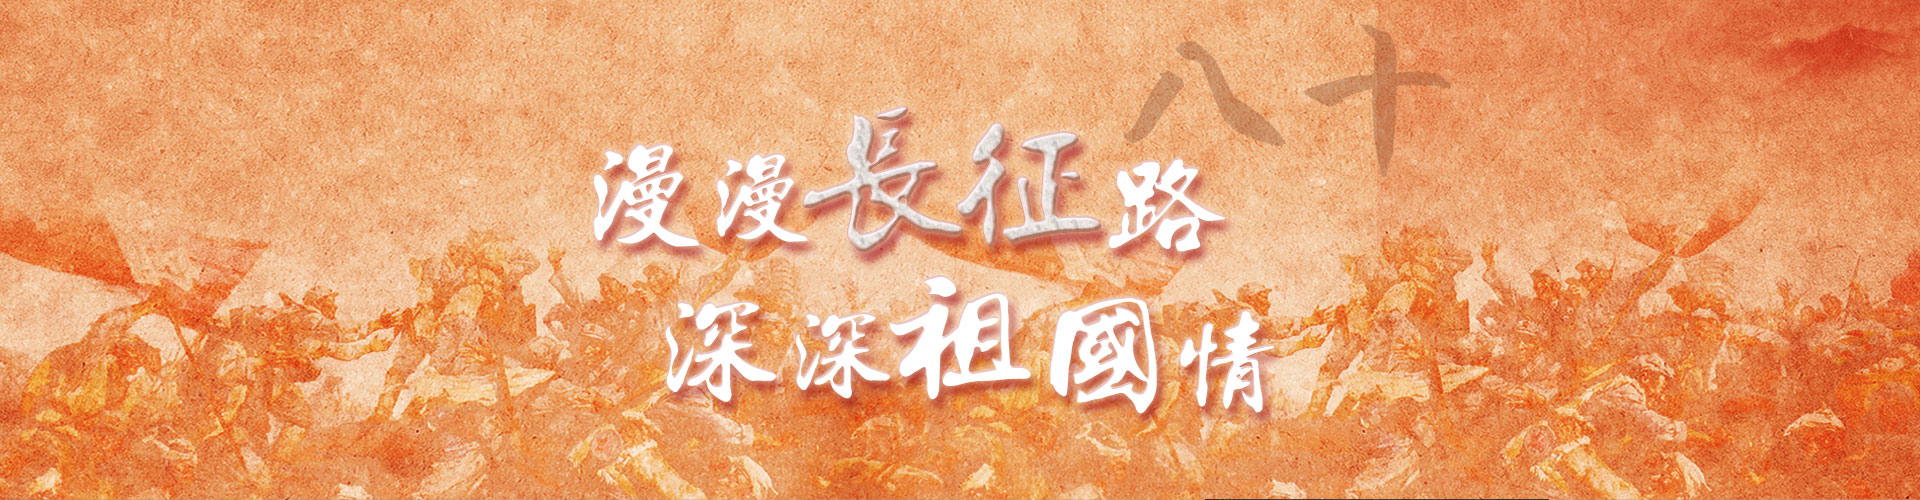
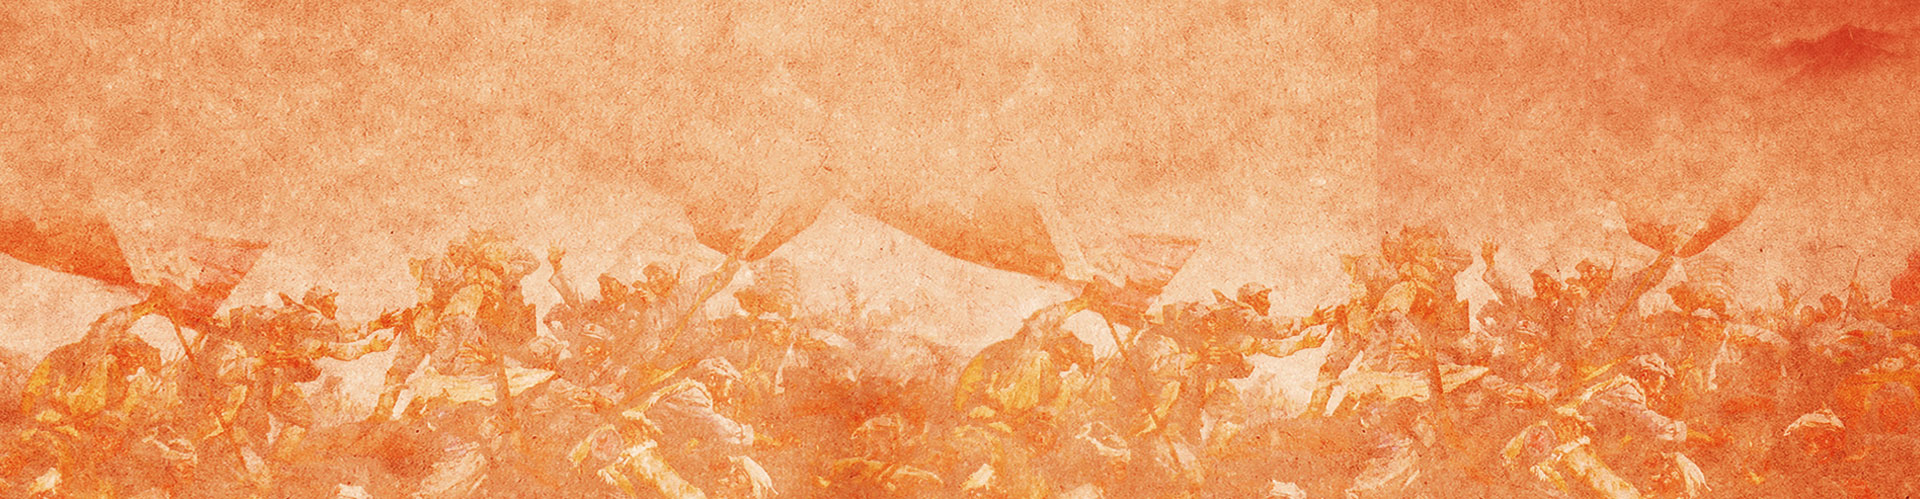
12.7
12.7

diff --git a/long-march/css/style.css b/long-march/css/style.css
@@ -102,22 +102,38 @@ input, select {
 
 body { 
   font-size: 62.5%;
-  font-family: MicrosoftYaHei;
+  font-family: Microsoft YaHei;
   background-image: url(../images/bg.jpg);
+  overflow-x: hidden;
 }
+
+/*头部部分*/
+
+#page-header {
+  width: 100%;
+  height: auto;
+  background-image: url(../images/banner.jpg);
+  background-size: 100% 100%;
+}
+
+#page-header h1 {
+  margin: 0 auto;
+  max-width: 1000px;
+}
+
 /*导航*/
 
 #page-content { position: relative; }
-#page-header {
+#navbar {
   position: absolute;
   right: 50px;
-  top: 0;
+  top: 120px;
   -webkit-transition: .8s; 
      -moz-transition: .8s; 
       -ms-transition: .8s; 
        -o-transition: .8s; 
           transition: .8s;
-  
+  z-index: 1000;
 }
 
 .navbar-nav {
@@ -167,6 +183,7 @@ body {
   text-align: center;
   color: #fff;
   font-size: 1.4em;
+  cursor: pointer;
 }
 .navbar-nav li:hover {
   background-color: #fd7202;
@@ -246,8 +263,8 @@ body {
   margin: 25px 0 45px 0;
 }
 .knet-right-main {
-  width: 313px;
-  background-color: #e3d1bc;
+  max-width: 313px;
+  background-color: rgba(237,212,189,0.5);
   padding: 35px 30px;
   font-size: 1.8em;
   text-indent: 2em;
@@ -275,15 +292,20 @@ body {
   height: 436px;
   background-image: url(../images/lookbackbg.png);
   position: relative;
+  background-size: 100% 100%;
 }
 
 .lookback-body {
     position: absolute;
-    left: 360px;
+    left: 36%;
     top: 100px;
 }
-
-.lookback-body a{
+.lookback-body li {
+  text-overflow: ellipsis;
+  overflow: hidden;
+  white-space: nowrap;
+}
+.lookback-body a {
   text-decoration: none;
   color: #fdeeed;
   line-height: 25px;
@@ -309,12 +331,19 @@ body {
   height: 428px;
   background-image: url(../images/sayingbg.png);
   position: relative;
+  background-size: 100% 100%;
 }
 
 .saying-body {
     position: absolute;
-    left: 320px;
+    left: 30%;
     top: 120px;
+}
+
+.saying-body li {
+  text-overflow: ellipsis;
+  overflow: hidden;
+  white-space: nowrap;
 }
 
 .saying-body a{
@@ -334,12 +363,19 @@ body {
   height: 494px;
   background-image: url(../images/futurebg.png);
   position: relative;
+  background-size: 100% 100%;
 }
 
 .future-body {
     position: absolute;
-    left: 200px;
+    left: 18%;
     top: 140px;
+}
+
+.future-body li {
+  text-overflow: ellipsis;
+  overflow: hidden;
+  white-space: nowrap;
 }
 
 .future-body a{
@@ -379,10 +415,13 @@ body {
   width: 320px;
   line-height: 25px;
   font-size: 1.8em;
-  padding: 40px 0;
+  padding: 40px 30px;
+
 }
 
-.topic-item p { text-indent: 2em; }
+.topic-item p { 
+  text-indent: 2em;
+}
 
 /*诗话长征部分*/
 
@@ -396,7 +435,7 @@ body {
 }
 
 .footer {
-  width: 800px;
+  max-width: 810px;
   margin: 0 auto;
   display: -webkit-box;
   display: -moz-box;
@@ -415,7 +454,7 @@ body {
           align-items: center;
 }
 
-.copyright{ width: 600px; }
+.copyright{ width: 610px; }
 .copyright p{
    font-size:1.2em;
    line-height:30px;
@@ -479,3 +518,96 @@ body {
   -webkit-animation-name: pulse;
   animation-name: pulse;
 }
+@media screen and (max-width: 1000px) {
+  #navbar { display: none; }
+}
+@media screen and (max-width: 800px) {
+  #knet > img {
+    width: 150px;
+    margin: 0 auto;
+    display: block;
+  }
+  .wrapper{
+    max-width: 600px;
+    padding-top: 10%;
+  }
+  .knet-wrapper{
+    flex-direction: column;
+  }
+   .lookback-main {
+    height: 350px;
+    background-size: 100% 100%;
+  }
+  .lookback-body {
+    left: 36%;
+    width: 50%;
+    top: 20%;
+  }
+  .saying-main{
+    height: 350px;
+    background-size: 100% 100%;
+  }
+  .saying-body {
+    left: 30%;
+    width: 50%;
+    top: 20%;
+  }
+  .future-main{
+    height: 350px;
+    background-size: 100% 100%;
+  }
+  .future-body {
+    left: 20%;
+    width: 50%;
+    top: 20%;
+  }
+  #topic > img {
+    display: block;
+    margin: 0 auto;
+    width: 120px;
+  }
+  #poem > img {
+    display: block;
+    margin: 0 auto;
+    height: 54px;
+  }
+  .copyright {
+    display: none;
+  }
+  .footer {
+    justify-content: center;
+  }
+}
+
+
+@media screen and (max-width: 450px) {
+  .wrapper{
+    max-width: 400px;
+  }
+  .knet-wrapper{
+    flex-direction: column;
+  }
+  .knet-right-main {
+    font-size: 1.2em;
+  }
+  .info-button {
+    width: 70px;
+    line-height: 30px;
+    font-size: 1.4em;
+  }
+  .lookback-main {
+    height: 250px;
+  }
+  .saying-main {
+    height: 250px;
+  }
+  .future-main {
+    height: 260px;
+  }
+  
+  .topic-item {
+    font-size: 1.2em;
+  }
+}
+
+

diff --git a/long-march/index.html b/long-march/index.html
@@ -7,28 +7,28 @@
   <title>漫漫长征路 深深祖国情</title>
   <link rel="stylesheet" href="css/style.css">
 </head>
-<body>
+<body id="top">
   <!-- 页首 -->
-  <h1 class="page-banner"><img src="images/banner.jpg" alt="漫漫长征路 深深祖国情" class="img-responsive"></h1>
-    
+  <div id="page-header"><h1><img src="images/banner-font.png" alt="漫漫长征路 深深祖国情" class="img-responsive"></h1></div>
+
   <!-- 页面主体内容 -->
   <div id="page-content">
     <!-- 导航 -->
-    <aside id="page-header">
-      <ul class="navbar-nav nav">
-        <li><a href="#">首页</a></li>
-        <li><a href="#knet">电子刊</a></li>
-        <li><a href="#lookback">长征路</a></li>
-        <li><a href="#saying">长征人</a></li>
-        <li><a href="#future">长征魂</a></li>
-        <li><a href="#topic">话题</a></li>
-        <li><a href="#poem">诗话长征</a></li>
+    <nav id="navbar">
+      <ul class="navbar-nav">
+        <li><a data-top="top">首页</a></li>
+        <li><a data-top="knet">电子刊</a></li>
+        <li><a data-top="lookback">长征路</a></li>
+        <li><a data-top="saying">长征人</a></li>
+        <li><a data-top="future">长征魂</a></li>
+        <li><a data-top="topic">话题</a></li>
+        <li><a data-top="poem">诗话长征</a></li>
       </ul>
-    </aside>  
+    </nav>  
     <div class="knet-content wrapper">
-      <h2 id="knet"><img src="images/knet.png" alt="电子刊"></h2>
+      <h2 id="knet"><img src="images/knet.png" alt="电子刊" class="img-responsive"></h2>
       <div class="knet-wrapper">
-        <div class="book"><img src="images/book.png" alt="电子书"></div>
+        <a href="#" class="book"><img src="images/book.png" alt="电子书" class="img-responsive"></a>
         <div class="knet-right">
           <h3>K-WEEK 019 英雄万里路</h3>
           <div class="knet-right-main">
@@ -40,7 +40,7 @@
       </div>
     </div>
     <div class="lookback-content wrapper">
-      <h2 id="lookback"><img src="images/lookback.png" alt="长征路-再回首"></h2>
+      <h2 id="lookback"><img src="images/lookback.png" alt="长征路-再回首" class="img-responsive"></h2>
       <div class="lookback-main">
         <ul class="lookback-body">
           <li><a href="javascript:(0)">我是标题我是标题我是标题我是标题我是标题我是标题我是标题我是标题我是标题</a></li>
@@ -54,7 +54,7 @@
       </div>
     </div>
     <div class="saying-content wrapper">
-      <h2 id="saying"><img src="images/saying.png" alt="长征人-话当下"></h2>
+      <h2 id="saying"><img src="images/saying.png" alt="长征人-话当下" class="img-responsive"></h2>
       <div class="saying-main">
         <ul class="saying-body">
           <li><a href="javascript:(0)">我是标题我是标题我是标题我是标题我是标题我是标题我是标题我是标题我是标题</a></li>
@@ -68,7 +68,7 @@
       </div>
     </div>
     <div class="future-content wrapper">
-      <h2 id="future"><img src="images/future.png" alt="长征魂-望未来"></h2>
+      <h2 id="future"><img src="images/future.png" alt="长征魂-望未来" class="img-responsive"></h2>
       <div class="future-main">
         <ul class="future-body">
           <li><a href="javascript:(0)">我是标题我是标题我是标题我是标题我是标题我是标题我是标题我是标题我是标题</a></li>

diff --git a/long-march/js/script.js b/long-march/js/script.js
@@ -1,18 +1,32 @@
-window.onresize = function () {
-  var winHeight = $(window).height();
-  var winWidth = $(window).width();
-}
+//侧边导航函数
 function aside(obj,refer) {
   var offset = $(obj).offset().top;
+  var top = $(obj).css("top").replace("px","");//获取整型即不带px单位的obj的高度
+    console.log(parseInt(top));
   $(window).scroll(function () {
-    if ($(window).scrollTop() >= $(refer).height() - $(obj).height())
-      $(obj).css('top', $(refer).height() - $(obj).height());
-    else{
-    	// if($(window).scrollTop() >= offset)
-      	$(obj).css('top', $(window).scrollTop() - offset +70);
-    }
+    if ($(window).scrollTop()>=offset-top) 
+      if ($(window).scrollTop() >= $(refer).height() - $(obj).height())
+        $(obj).css('top', $(refer).height() - $(obj).height());
+      else
+        	$(obj).css('top', $(window).scrollTop() - offset +210);
+    else
+      $(obj).css('top', top+"px");
   })
 };
+
+//导航跳转动画函数
+function navanimate(obj) {
+  var offset = $(obj).offset().top;
+  $("html,body").animate({scrollTop:offset},400);
+}
+
 $(function () {
-  aside('#page-header','#page-content');
+  aside('#navbar','#page-content');
+  $(".navbar-nav a").each(function(index,element){
+      $(this).click(function(){
+        // console.log(index);
+        var top = $(this).attr("data-top");
+        navanimate("#"+top);
+      });
+  });
 })
